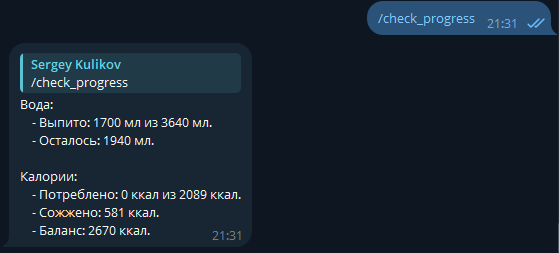
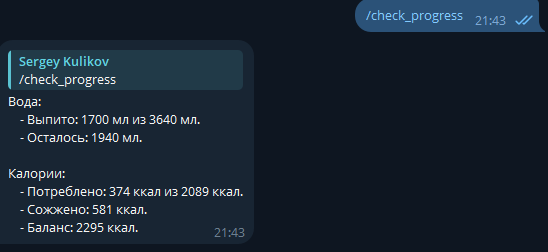
edit README

diff --git a/get_info.py b/get_info.py
@@ -43,7 +43,7 @@ async def get_calories(food):
     food_query = translator.translate(food) + " 100g"
     async with aiohttp.ClientSession() as session:
         async with session.get(
-            food_api_url + food_query, headers={"X-Api-Key": CALORIENINJAS}
+            calorieninjas_api_url + food_query, headers={"X-Api-Key": CALORIENINJAS}
         ) as response:
             return (await response.json())["items"][0]["calories"]
 

diff --git a/README.md b/README.md
@@ -24,6 +24,9 @@ python app.py
 ![Логирование тренировок](images/image2.png)
 
 
+Логирование еды  
+![Логирование еды](images/image5.png)
+
 Логирование воды  
 ![Логирование воды](images/image3.png)
 
